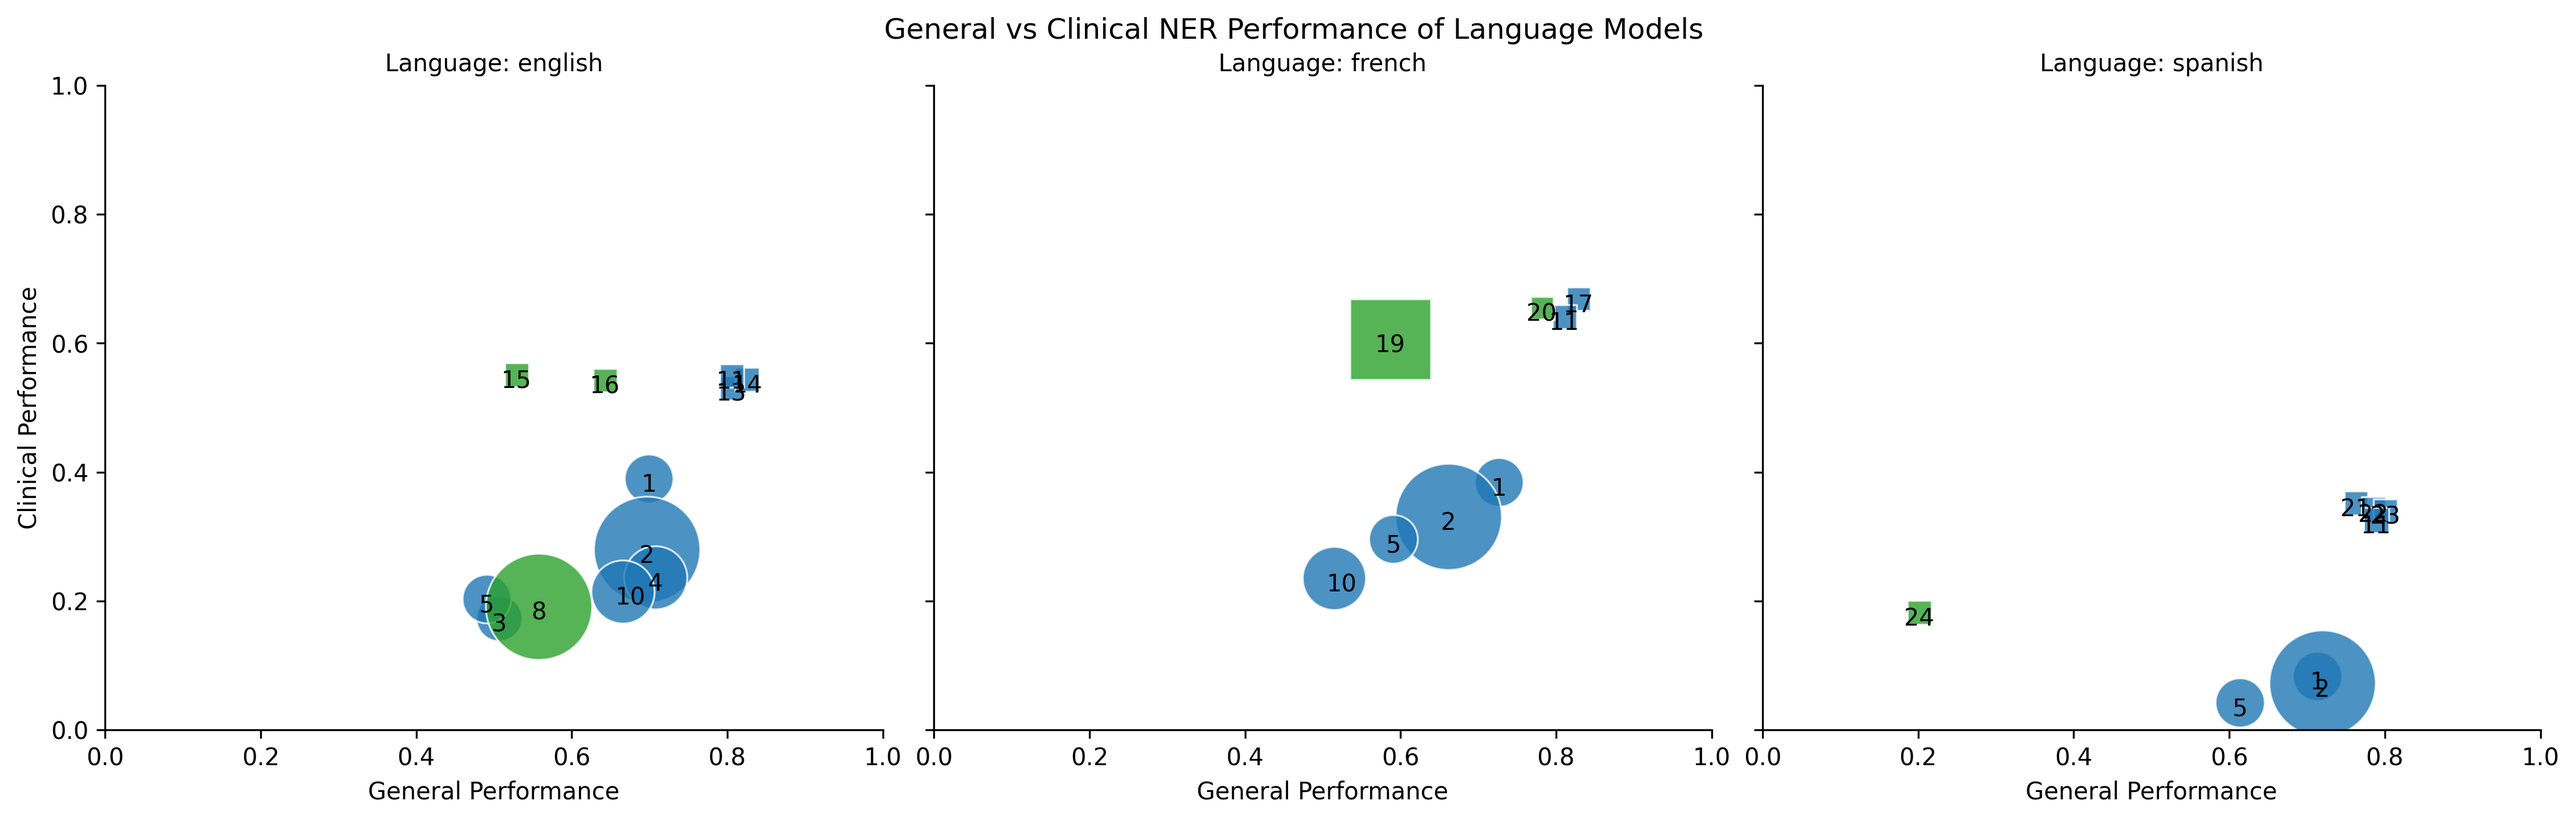
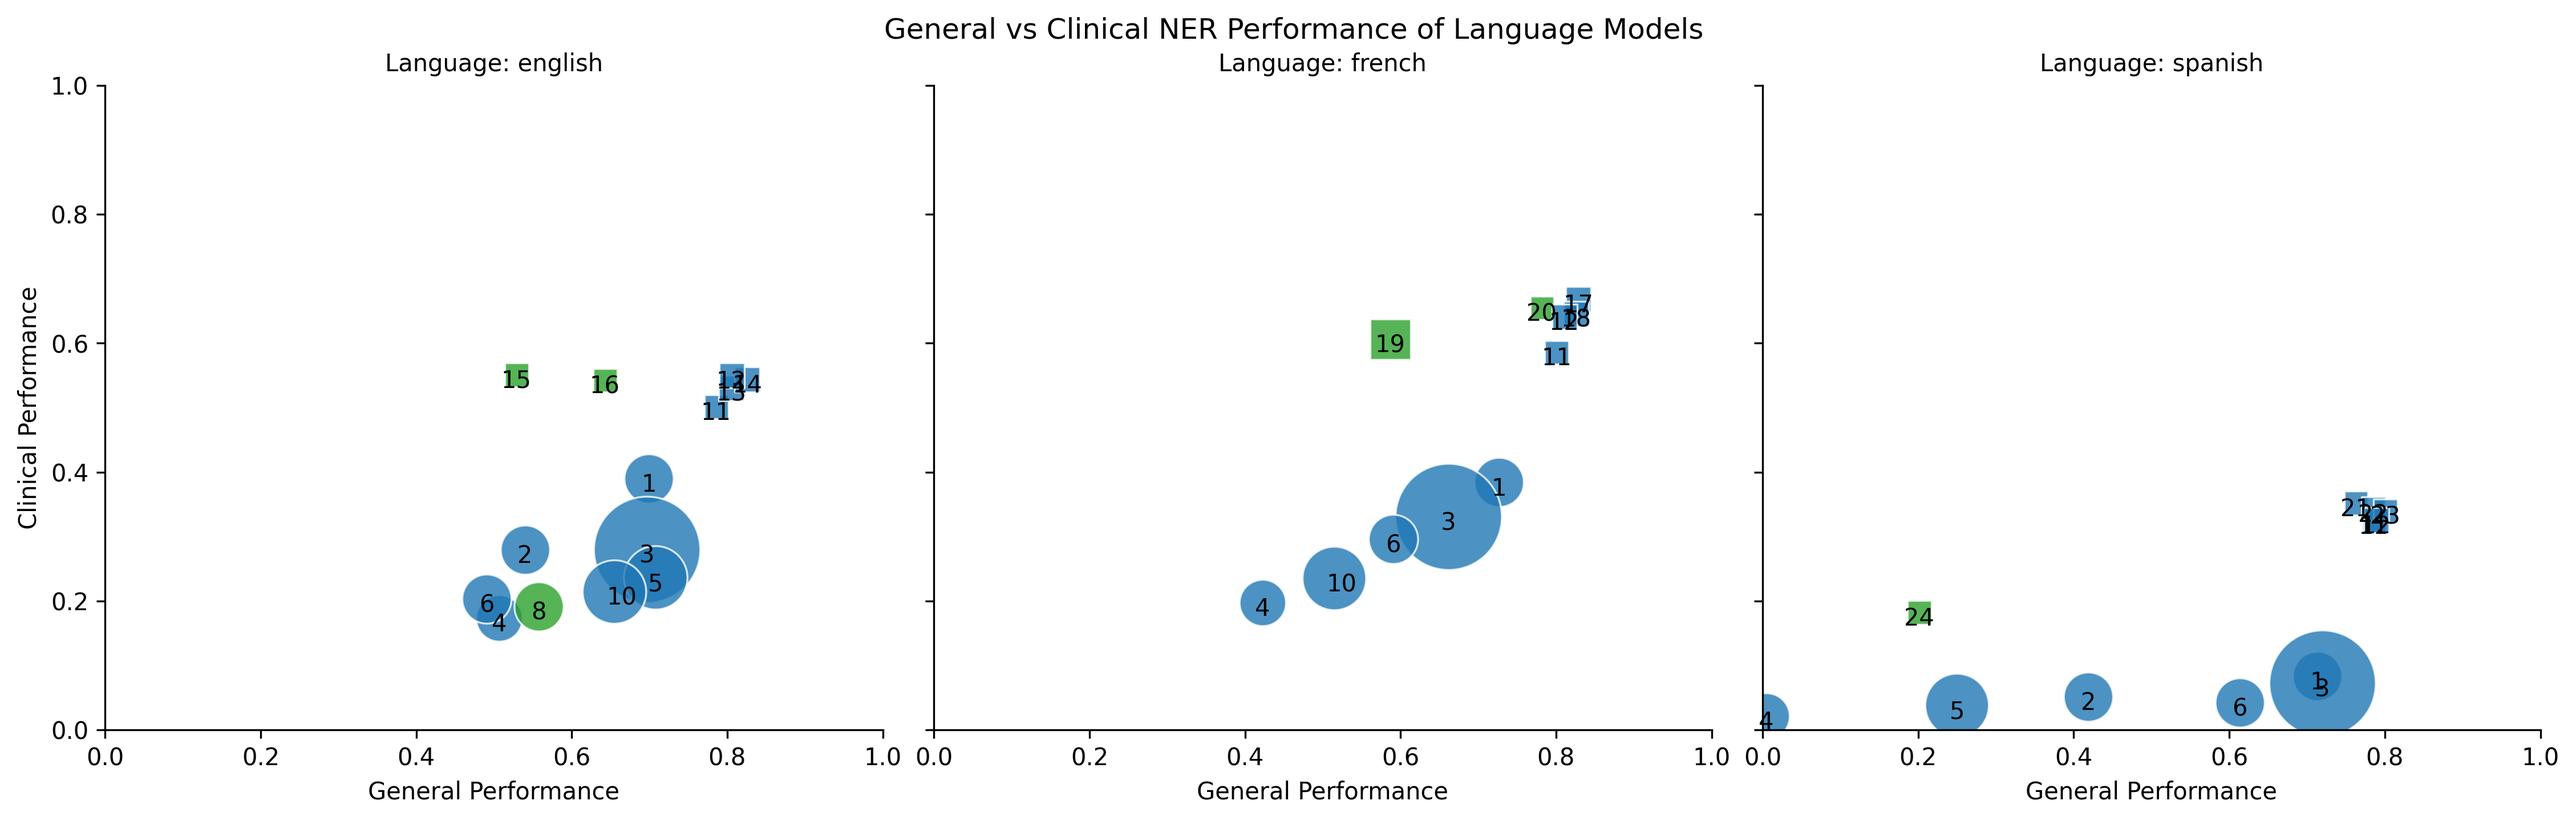
res

diff --git a/result_tabs_and_plots/results_table.tex b/result_tabs_and_plots/results_table.tex
@@ -4,24 +4,24 @@
 & Model & WikiNER & CoNLL2003 & E3C & n2c2 & i2b2 & WikiNER & QFP & E3C & EMEA & MEDLINE & WikiNER & CoNLL2002 & E3C & CWL \\
 \midrule
 \multirow{10}{*}{\rotatebox[origin=c]{90}{Causal}} & 1- Mistral-7B & 0.754 & 0.645 & 0.488 & 0.291 & - & 0.727 & - & 0.59 & 0.229 & 0.333 & 0.72 & 0.707 & 0.083 & - \\
- & 2- Falcon-40B & 0.686 & 0.708 & 0.28 & 0.279 & - & 0.662 & - & 0.378 & - & 0.283 & 0.72 & - & 0.072 & - \\
- & 3- GPT-J-6B & 0.521 & 0.493 & 0.167 & 0.179 & - & - & - & 0.334 & 0.08 & 0.177 & - & - & 0.021 & - \\
- & 4- Vicuna-13B & - & 0.708 & - & 0.236 & - & - & - & - & - & 0.326 & - & 0.25 & - & - \\
- & 5- Vicuna-7B & 0.594 & 0.388 & 0.259 & 0.147 & - & 0.591 & - & 0.439 & 0.152 & 0.296 & 0.659 & 0.569 & 0.042 & - \\
- & 6- BLOOM-7B1 & - & - & - & - & - & - & - & - & - & - & - & - & - & - \\
+ & 2- BLOOM-7B1 & 0.524 & 0.557 & 0.279 & - & - & - & - & 0.32 & - & - & - & 0.419 & 0.051 & - \\
+ & 3- Falcon-40B & 0.686 & 0.708 & 0.28 & 0.279 & - & 0.662 & - & 0.378 & - & 0.283 & 0.72 & - & 0.072 & - \\
+ & 4- GPT-J-6B & 0.521 & 0.493 & 0.167 & 0.179 & - & 0.423 & - & 0.334 & 0.08 & 0.177 & 0.005 & - & 0.021 & - \\
+ & 5- Vicuna-13B & - & 0.708 & - & 0.236 & - & - & - & 0.399 & - & 0.326 & - & 0.25 & 0.038 & - \\
+ & 6- Vicuna-7B & 0.594 & 0.388 & 0.259 & 0.147 & - & 0.591 & - & 0.439 & 0.152 & 0.296 & 0.659 & 0.569 & 0.042 & - \\
  & 7- GPT2-XL & - & - & - & - & - & - & - & - & - & - & - & - & - & - \\
  & 8- Medalpaca-7B & - & 0.558 & - & 0.191 & - & - & - & - & 0.161 & 0.224 & - & - & - & - \\
  & 9- BioMedLM & - & - & - & - & - & - & - & - & - & - & - & - & - & - \\
- & 10- Vigogne-13B & - & 0.666 & 0.252 & 0.176 & - & 0.515 & - & 0.464 & 0.099 & 0.142 & - & - & 0.01 & - \\
+ & 10- Vigogne-13B & - & 0.655 & 0.252 & 0.176 & - & 0.515 & - & 0.464 & 0.099 & 0.142 & - & - & 0.01 & - \\
 \midrule
-\multirow{14}{*}{\rotatebox[origin=c]{90}{Masked}} & 11- XLM-RoBERTa-large & 0.786 & 0.826 & 0.637 & 0.462 & - & 0.811 & - & 0.762 & 0.629 & 0.531 & 0.797 & 0.781 & 0.325 & - \\
- & 12- mBERT & - & - & - & - & - & - & - & - & - & - & - & - & - & - \\
+\multirow{14}{*}{\rotatebox[origin=c]{90}{Masked}} & 11- mBERT & 0.768 & 0.804 & 0.624 & 0.378 & - & 0.801 & - & 0.741 & 0.588 & 0.428 & 0.812 & 0.76 & 0.324 & - \\
+ & 12- XLM-RoBERTa-large & 0.786 & 0.826 & 0.637 & 0.462 & - & 0.811 & - & 0.762 & 0.629 & 0.531 & 0.797 & 0.781 & 0.325 & - \\
  & 13- BERT-large & 0.776 & 0.835 & 0.626 & 0.435 & - & - & - & - & - & - & - & - & - & - \\
  & 14- RoBERTa-large & 0.79 & 0.862 & 0.626 & 0.462 & - & - & - & - & - & - & - & - & - & - \\
  & 15- ClinicalBERT & 0.462 & 0.597 & 0.622 & 0.48 & - & - & - & - & - & - & - & - & - & - \\
  & 16- MedBERT & 0.613 & 0.673 & 0.607 & 0.478 & - & - & - & - & - & - & - & - & - & - \\
  & 17- CamemBERT-large & - & - & - & - & - & 0.829 & - & 0.768 & 0.661 & 0.577 & - & - & - & - \\
- & 18- FlauBERT-large & - & - & - & - & - & - & - & - & - & - & - & - & - & - \\
+ & 18- FlauBERT-large & - & - & - & - & - & 0.826 & - & 0.76 & 0.635 & 0.542 & - & - & - & - \\
  & 19- DrBERT-4GB & - & - & - & - & - & 0.587 & - & 0.73 & 0.602 & 0.486 & - & - & - & - \\
  & 20- CamemBERT-bio & - & - & - & - & - & 0.782 & - & 0.779 & 0.636 & 0.549 & - & - & - & - \\
  & 21- BETO & - & - & - & - & - & - & - & - & - & - & 0.794 & 0.732 & 0.352 & - \\

diff --git a/plot_tools.py b/plot_tools.py
@@ -71,9 +71,6 @@ def plot_data(df, output_folder, model_domains, model_types, model_sizes, model_
     grid = sns.FacetGrid(
         scatter_df,
         col="model_language", 
-        hue="model_domain", 
-        hue_order=["General","", "Clinical"], 
-        palette=['#1f77b4', '#ff7f0e', '#2ca02c'], 
         col_wrap=3, 
         height=4, 
         aspect=1.5
@@ -84,6 +81,10 @@ def plot_data(df, output_folder, model_domains, model_types, model_sizes, model_
         "clinical_performance",
         size="model_size",
         style="model_type",
+        hue="model_domain", 
+        hue_order=["General","", "Clinical"], 
+        palette=['#1f77b4', '#ff7f0e', '#2ca02c'], 
+        
         markers={"Causal": 'o', "Masked": 's'},
         sizes=MARKER_SIZES,
         alpha=0.8

diff --git a/read_results.py b/read_results.py
@@ -62,7 +62,7 @@ model_hierarchy = {
                 "languages" : "french",
             },
             {
-                "name": "flaubert/flaubert_large_cased",
+                "name": "flaubert_large_cased",
                 "clean_name": "FlauBERT-large",
                 "size": 335*M,
                 "languages" : "french",
@@ -292,6 +292,8 @@ def read_jsons(path):
     df = df[df['test_on_test_set'] == True]
 
     initial_len = len(df)
+    #sort df by time_str
+    df = df.sort_values(by=["model_name", "dataset_name", "time_str"])
     df = df.drop_duplicates(subset=['model_name', 'dataset_name'], keep='last')
     final_len = len(df)
     print(f'Dropped {initial_len - final_len} duplicates.')
